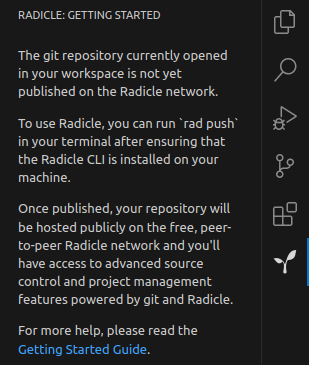
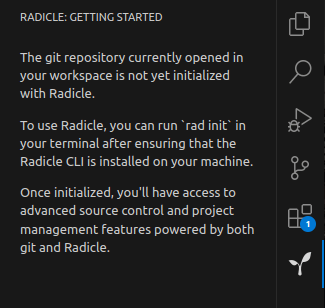
docs(readme): update image for non-rad-inited welcome view
Partially closes #52

diff --git a/CHANGELOG.md b/CHANGELOG.md
@@ -12,6 +12,10 @@
 
 - **when-clause-context:** rename `isRepoRadInitialised` --> `isRadInitialized` ([#52](https://github.com/cytechmobile/radicle-vscode-extension/issues/52))
 
+### 📖 Documentation
+
+- **readme:** use up-to-date screenshot of "non-rad-initialized repo" Welcome View in Onboarding examples ([#52](https://github.com/cytechmobile/radicle-vscode-extension/issues/52))
+
 -----
 
 ## **v0.2.0** (June 28th, 2023)
